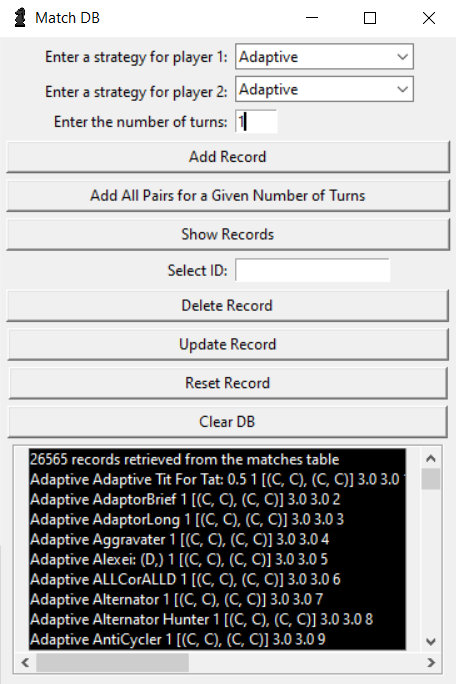
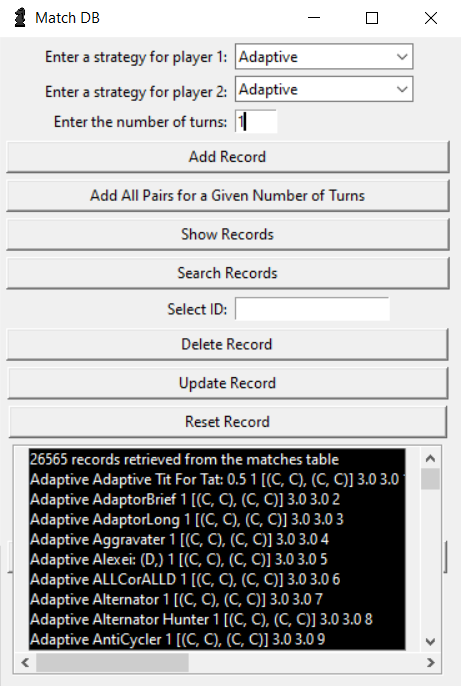
Search Records button fully implemented; updated README.md

diff --git a/interactive-gt.py b/interactive-gt.py
@@ -26,9 +26,9 @@ def addAllPairs():
                 'strategy1': str(pair[0]),
                 'strategy2': str(pair[1]),
                 'numTurns': dbTurnsEntry.get(),
-                'output': str(dbStartMatch(pair[0], pair[1], int(dbTurnsEntry.get()))[0]), 
-                'score1': dbStartMatch(pair[0], pair[1], int(dbTurnsEntry.get()))[1][0], 
-                'score2':dbStartMatch(pair[0], pair[1], int(dbTurnsEntry.get()))[1][1]
+                'output': str(dbPlayMatch(pair[0], pair[1], int(dbTurnsEntry.get()))[0]), 
+                'score1': dbPlayMatch(pair[0], pair[1], int(dbTurnsEntry.get()))[1][0], 
+                'score2':dbPlayMatch(pair[0], pair[1], int(dbTurnsEntry.get()))[1][1]
             }
         )
     # Inserting pairs (s, s) for each strategy s
@@ -38,9 +38,9 @@ def addAllPairs():
                 'strategy1': str(strategy),
                 'strategy2': str(strategy),
                 'numTurns': dbTurnsEntry.get(),
-                'output': str(dbStartMatch(strategy, strategy, int(dbTurnsEntry.get()))[0]), 
-                'score1': dbStartMatch(strategy, strategy, int(dbTurnsEntry.get()))[1][0], 
-                'score2':dbStartMatch(strategy, strategy, int(dbTurnsEntry.get()))[1][1]
+                'output': str(dbPlayMatch(strategy, strategy, int(dbTurnsEntry.get()))[0]), 
+                'score1': dbPlayMatch(strategy, strategy, int(dbTurnsEntry.get()))[1][0], 
+                'score2':dbPlayMatch(strategy, strategy, int(dbTurnsEntry.get()))[1][1]
             }
         )
 
@@ -74,9 +74,9 @@ def addRecord():
             'strategy1': dbClicked1.get(),
             'strategy2': dbClicked2.get(),
             'numTurns': dbTurnsEntry.get(),
-            'output': str(dbStartMatch(p1, p2, int(dbTurnsEntry.get()))[0]),
-            'score1': dbStartMatch(p1, p2, int(dbTurnsEntry.get()))[1][0],
-            'score2': dbStartMatch(p1, p2, int(dbTurnsEntry.get()))[1][1]
+            'output': str(dbPlayMatch(p1, p2, int(dbTurnsEntry.get()))[0]),
+            'score1': dbPlayMatch(p1, p2, int(dbTurnsEntry.get()))[1][0],
+            'score2': dbPlayMatch(p1, p2, int(dbTurnsEntry.get()))[1][1]
         }
     )
     # """
@@ -508,6 +508,7 @@ def db():
     addRecordButton = Button(dbWindow, text="Add Record", command=addRecord)
     addAllPairsButton = Button(dbWindow, text="Add All Pairs for a Given Number of Turns", command=addAllPairs)
     showRecordsButton = Button(dbWindow, text="Show Records", command=showRecords)
+    searchRecordsButton = Button(dbWindow, text="Search Records", command=searchRecords)
     selectIDLabel = Label(dbWindow, text="Select ID: ")
     selectIDEntry = Entry(dbWindow, width=20)
     deleteRecordButton = Button(dbWindow, text="Delete Record", command=deleteRecord)
@@ -525,12 +526,13 @@ def db():
     addRecordButton.grid(row=3, column=0, columnspan=2, padx=5, pady=(0, 5), ipadx=141)
     addAllPairsButton.grid(row=4, column=0, columnspan=2, padx=5, pady=(0, 5), ipadx=62)
     showRecordsButton.grid(row=5, column=0, columnspan=2, padx=5, pady=(0, 5), ipadx=135)
-    selectIDLabel.grid(row=6, column=0, pady=(0, 5), sticky=E)
-    selectIDEntry.grid(row=6, column=1, pady=(0, 5), sticky=W)
-    deleteRecordButton.grid(row=7, column=0, columnspan=2, padx=5, pady=(0, 5), ipadx=135)
-    updateRecordButton.grid(row=8, column=0, columnspan=2, padx=5, pady=(0, 5), ipadx=132)
-    resetRecordButton.grid(row=9, column=0, columnspan=2, padx=5, pady=(0, 5), ipadx=136)
-    clearDBButton.grid(row=10, column=0, columnspan=2, padx=5, pady=(0, 5), ipadx=148)
+    searchRecordsButton.grid(row=6, column=0, columnspan=2, padx=5, pady=(0, 5), ipadx=132)
+    selectIDLabel.grid(row=7, column=0, pady=(0, 5), sticky=E)
+    selectIDEntry.grid(row=7, column=1, pady=(0, 5), sticky=W)
+    deleteRecordButton.grid(row=8, column=0, columnspan=2, padx=5, pady=(0, 5), ipadx=135)
+    updateRecordButton.grid(row=9, column=0, columnspan=2, padx=5, pady=(0, 5), ipadx=132)
+    resetRecordButton.grid(row=10, column=0, columnspan=2, padx=5, pady=(0, 5), ipadx=136)
+    clearDBButton.grid(row=11, column=0, columnspan=2, padx=5, pady=(0, 5), ipadx=148)
     
     # Commit changes
     conn.commit()
@@ -538,7 +540,7 @@ def db():
     conn.close()
     return
 
-def dbStartMatch(p1, p2, t = 6):    
+def dbPlayMatch(p1, p2, t = 6):    
     """
     Runs an axelrod match between players of type p1 and p2 with t turns and returns a tuple of the match output and scores
     """    
@@ -1043,9 +1045,9 @@ def resetRecord():
                   'strategy1': dbClicked1.get(), 
                   'strategy2': dbClicked2.get(), 
                   'numTurns': dbTurnsEntry.get(),
-                  'output': dbStartMatch(dbClicked1.get(), dbClicked2.get(), int(dbTurnsEntry.get()))[0],
-                  'score1': dbStartMatch(dbClicked1.get(), dbClicked2.get(), int(dbTurnsEntry.get()))[1][0],
-                  'score2': dbStartMatch(dbClicked1.get(), dbClicked2.get(), int(dbTurnsEntry.get()))[1][1],
+                  'output': dbPlayMatch(dbClicked1.get(), dbClicked2.get(), int(dbTurnsEntry.get()))[0],
+                  'score1': dbPlayMatch(dbClicked1.get(), dbClicked2.get(), int(dbTurnsEntry.get()))[1][0],
+                  'score2': dbPlayMatch(dbClicked1.get(), dbClicked2.get(), int(dbTurnsEntry.get()))[1][1],
                   'oid': recordID
               })    
     
@@ -1096,7 +1098,7 @@ def showRecords():
 
     recordsList = []
     recordsList.append(f"{numRecords} records retrieved from the matches table\n")
-    for i, record in enumerate(records):
+    for record in records:
         recordsList.append(
             str(record[0]) + " " + str(record[1]) + " " + str(record[2]) + " " + str(record[3]) + " " + str(record[4]) + " " + str(record[5]) + " " + str(record[6])
         )
@@ -1125,7 +1127,64 @@ def showRecords():
     
     return
 
-def startMatch(p1, p2, output, t = 6):
+def searchRecords():
+    global topSearch
+    
+    topSearch = Toplevel()
+    topSearch.title("Search Records")
+    topSearch.iconbitmap("knight.ico")
+    topSearch.geometry("400x180")
+    
+    global searchClicked1
+    global searchClicked2
+    global numTurnsSearchEntry
+    global outputSearchEntry
+    global score1SearchEntry
+    global score2SearchEntry
+    global IDEntry
+    
+    options = [s() for s in axl.strategies]
+    searchClicked1 = StringVar()
+    searchClicked2 = StringVar()
+    
+    # Labels and input fields
+    strategy1SearchLabel = Label(topSearch, text="Strategy 1: ")
+    strategy1SearchDropdown = ttk.Combobox(topSearch, textvariable=searchClicked1, values=options)
+    strategy2SearchLabel = Label(topSearch, text="Strategy 2: ")
+    strategy2SearchDropdown = ttk.Combobox(topSearch, textvariable=searchClicked2, values=options)
+    numTurnsSearchLabel = Label(topSearch, text="Number of turns: ")
+    numTurnsSearchEntry = Entry(topSearch, width=5)
+    outputSearchLabel = Label(topSearch, text="Output: ")
+    outputSearchEntry = Entry(topSearch, width=45)
+    score1SearchLabel = Label(topSearch, text="Score 1: ")
+    score1SearchEntry = Entry(topSearch, width=20)
+    score2SearchLabel = Label(topSearch, text="Score 2: ")
+    score2SearchEntry = Entry(topSearch, width=20)
+    IDLabel = Label(topSearch, text="ID: ")
+    IDEntry = Entry(topSearch, width=20)
+    
+    # Putting everything in the topSearch window
+    strategy1SearchLabel.grid(row=0, column=0, sticky=E)
+    strategy1SearchDropdown.grid(row=0, column=1, sticky=W)
+    strategy2SearchLabel.grid(row=1, column=0, sticky=E)
+    strategy2SearchDropdown.grid(row=1, column=1, sticky=W)
+    numTurnsSearchLabel.grid(row=2, column=0, padx=(10, 0), sticky=E)
+    numTurnsSearchEntry.grid(row=2, column=1, sticky=W)
+    outputSearchLabel.grid(row=3, column=0, sticky=E)
+    outputSearchEntry.grid(row=3, column=1, sticky=W)
+    score1SearchLabel.grid(row=4, column=0, sticky=E)
+    score1SearchEntry.grid(row=4, column=1, sticky=W)
+    score2SearchLabel.grid(row=5, column=0, sticky=E)
+    score2SearchEntry.grid(row=5, column=1, sticky=W, pady=(0,5))
+    IDLabel.grid(row=6, column=0, sticky=E)
+    IDEntry.grid(row=6, column=1, sticky=W)
+    
+    submitButton = Button(topSearch, text="Submit", command=submit)
+    submitButton.grid(row=7, column=0, columnspan=2)
+    
+    return
+
+def playMatch(p1, p2, output, t = 6):
     """
     Runs an axelrod match between players of type p1 and p2 with t turns
     """
@@ -1186,9 +1245,9 @@ def startMatch(p1, p2, output, t = 6):
                 'strategy1': clicked1.get(),
                 'strategy2': clicked2.get(),
                 'numTurns': turnsEntry.get(),
-                'output': str(dbStartMatch(p1, p2, int(turnsEntry.get()))[0]),
-                'score1': dbStartMatch(p1, p2, int(turnsEntry.get()))[1][0],
-                'score2': dbStartMatch(p1, p2, int(turnsEntry.get()))[1][1]
+                'output': str(dbPlayMatch(p1, p2, int(turnsEntry.get()))[0]),
+                'score1': dbPlayMatch(p1, p2, int(turnsEntry.get()))[1][0],
+                'score2': dbPlayMatch(p1, p2, int(turnsEntry.get()))[1][1]
             }
         )
         
@@ -1240,6 +1299,65 @@ def startMatch(p1, p2, output, t = 6):
     axelrodOutput1.grid(row=5, column=0, columnspan=2, padx=10, pady=10, sticky=EW)
     axelrodOutput2.grid(row=6, column=0, columnspan=2, padx=10, pady=10, sticky=EW)
     return"""
+    
+def submit():
+    """
+    Submits the user's query when searching the match database
+    """
+    conn = sqlite3.connect('match.db')
+    c = conn.cursor()
+    
+    # Building the query that we'll search with
+    tupleSize = 0
+    searchQuery = "SELECT *, oid FROM matches"
+    if searchClicked1.get() != "":
+        searchQuery = searchQuery + " WHERE strategy1='" + searchClicked1.get() + "'"
+    if searchClicked2.get() != "":
+        searchQuery = searchQuery + " AND strategy2='" + searchClicked2.get() + "'"
+    if numTurnsSearchEntry.get() != "":
+        searchQuery = searchQuery + " AND numTurns='" + numTurnsSearchEntry.get() + "'"
+    if outputSearchEntry.get() != "":
+        searchQuery = searchQuery + " AND output='" + outputSearchEntry.get() + "'"
+    if score1SearchEntry.get() != "":
+        searchQuery = searchQuery + " AND score1='" + score1SearchEntry.get() + "'"
+    if score2SearchEntry.get() != "":
+        searchQuery = searchQuery + " AND score2='" + score2SearchEntry.get() + "'"
+        tupleSize += 1
+    if IDEntry.get() != "":
+        searchQuery = searchQuery + " AND oid='" + IDEntry.get() + "'"
+    
+    c.execute(searchQuery)
+    
+    records = c.fetchall()
+    numRecords = len(records)
+    
+    recordsList = []
+    recordsList.append(f"{numRecords} records retrieved from the matches table\n")
+    for record in records:
+        recordsList.append(str(record[0]) + " " + str(record[1]) + " " + str(record[2]) + " " + str(record[3]) + " " + str(record[4]) + " " + str(record[5]) + " " + str(record[6]))
+    recordsList.reverse()
+    
+    searchResultsFrame = LabelFrame(topSearch)
+    
+    xscrollbar = Scrollbar(searchResultsFrame, orient=HORIZONTAL)
+    yscrollbar = Scrollbar(searchResultsFrame, orient=VERTICAL)
+    
+    showRecordsListBox = Listbox(searchResultsFrame, width=50, xscrollcommand=xscrollbar.set, yscrollcommand=yscrollbar.set, bg="black", fg="white")
+    for record in recordsList:
+        showRecordsListBox.insert(0, record)
+    
+    searchResultsFrame.grid(row=11, column=0, columnspan=2)
+    showRecordsListBox.grid(row=0, column=0, padx=10, sticky=NSEW)
+    xscrollbar.grid(row=1, column=0, columnspan=2, sticky=EW)
+    xscrollbar.config(command = showRecordsListBox.xview)
+    yscrollbar.grid(row=0, column=1, sticky=NS)
+    yscrollbar.config(command = showRecordsListBox.yview)
+    
+    topSearch.geometry("400x400")
+    
+    conn.commit()
+    conn.close()    
+    return
 
 def updateRecord():
     """
@@ -1814,7 +1932,7 @@ while type(p2).__name__ == "str":
         p2 = options[counter]
     counter += 1
 
-matchButton = Button(axelrodFrame, text="Start Match", command=lambda: startMatch(p1, p2, dbOutput.get(), int(turnsEntry.get())))
+matchButton = Button(axelrodFrame, text="Play Match", command=lambda: playMatch(p1, p2, dbOutput.get(), int(turnsEntry.get())))
 # tournamentButton = Button(axelrodFrame, text="Start Tournament", command=startTournament(int(turnsEntry.get())))
 dbButton = Button(axelrodFrame, text="View Database", command=db)
 

diff --git a/README.md b/README.md
@@ -10,5 +10,8 @@ An SQLite database of matches with a match for every pair of strategies with 1 t
 The Update Record window: \
 ![update](images/image3.png)
 
+The Search Records window: \
+![search](images/image4.png)
+
 # Installation
 Currently, this application may only be installed by downloading `interactive-gt.py` and running it. 
